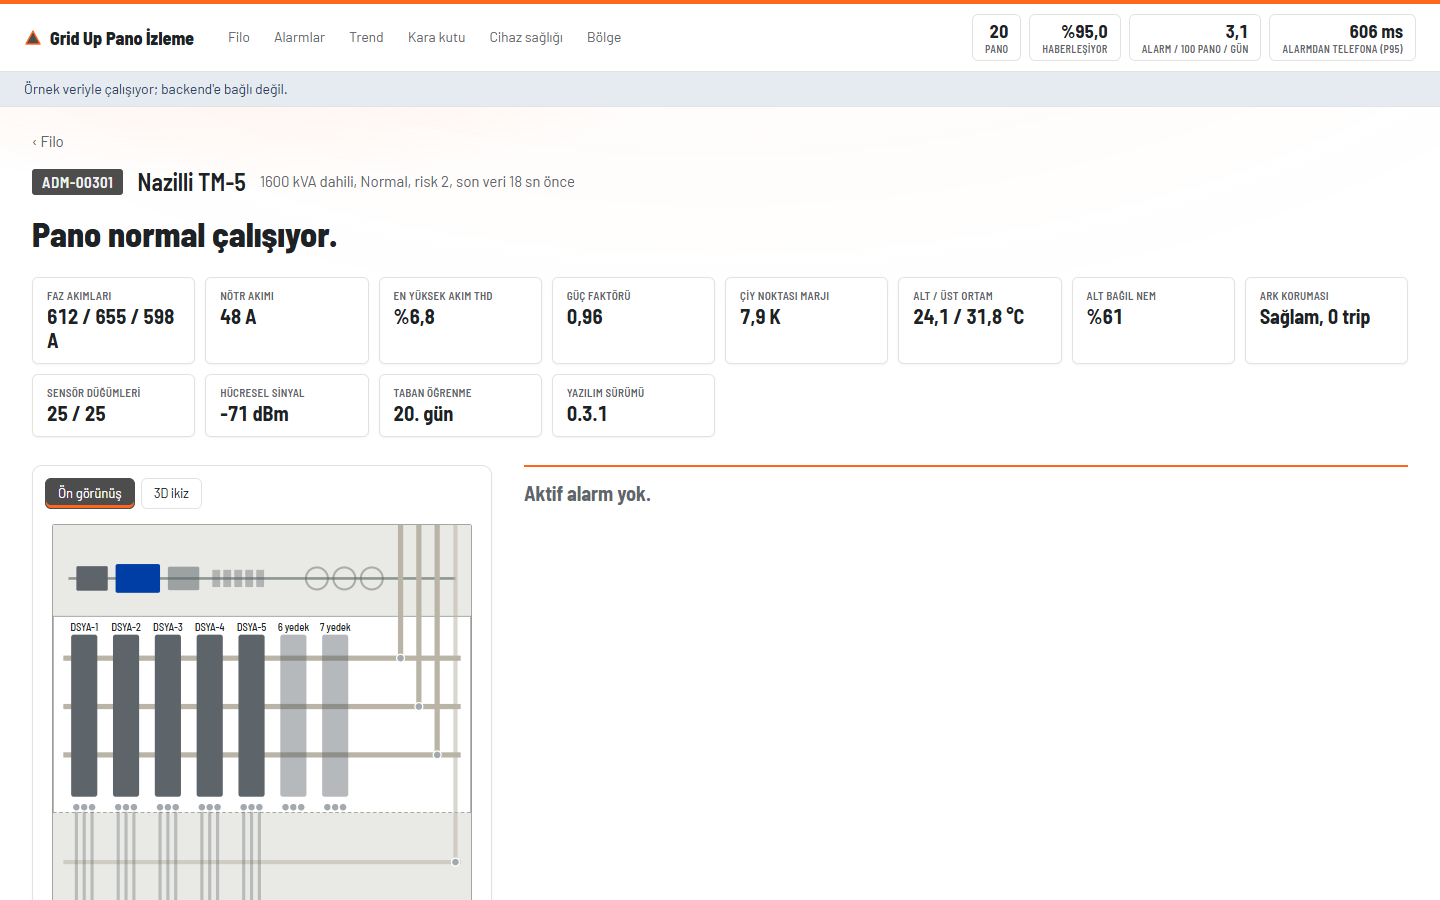
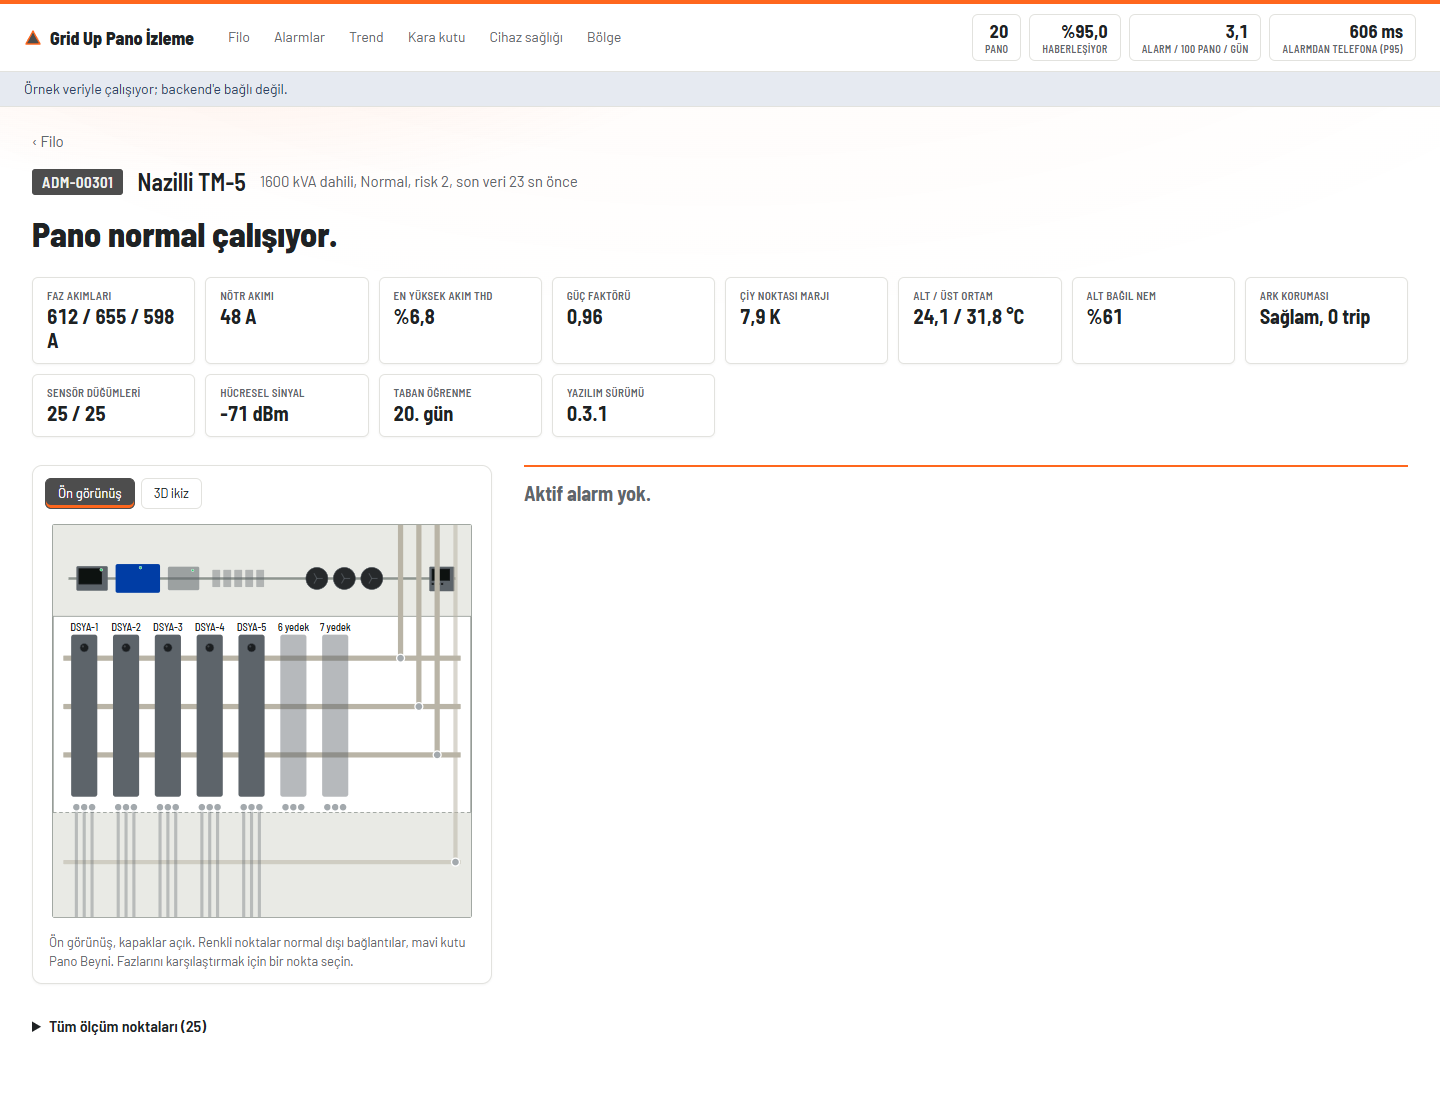
docs(frontend): pano detay ekran goruntuleri yenilendi (gercekcilik duzeltmeleri sonrasi)
assets/ekran/'daki 8 dosyadan yalnizca pano ic gorunumunu gosteren ikisi
(02-pano-detay-alarm.png /pano/ADM-00014, 02-pano-detay-normal.png /pano/ADM-00301)
bir onceki commit'teki (452af35) kondansator rengi + TVOC-2/MPR-53CS ekran detayi
degisikliklerinden etkileniyordu; ayni rota/sekme kombinasyonuyla yeniden cekildi.
docs/16-ux-tasarim.md ayni dosya adlarini kullandigi icin otomatik guncel.

diff --git a/frontend/TASARIM-REVIZYONU.md b/frontend/TASARIM-REVIZYONU.md
@@ -474,6 +474,12 @@ kontrol edildi: kondansatörler artık koyu dolu daire + tahliye izi, MPR-53CS'd
 TVOC-2'de tek parça koyu ekran görünüyor; konsolda hata yok (yalnızca ilgisiz, önceden var olan
 bir form-alanı erişilebilirlik uyarısı).
 
+**Ekran görüntüleri:** `assets/ekran/`'daki 8 dosyadan yalnızca panonun iç görünümünü gösteren
+ikisi (`02-pano-detay-alarm.png` → `/pano/ADM-00014`, "Ön görünüş"; `02-pano-detay-normal.png` →
+`/pano/ADM-00301`, sakin durum) bu değişikliklerden etkileniyordu; aynı rota/sekme kombinasyonuyla
+yeniden çekildi. Diğer 6 dosya (Filo, Alarm konsolu, Trend, Kara kutu, Cihaz sağlığı, Bölge) pano
+iç görünümünü göstermediğinden dokunulmadı — gereksiz yeniden çekim yapılmadı.
+
 ## Kaynaklar
 
 - ADM Elektrik: <https://www.admelektrik.com.tr/> · GDZ Elektrik: <https://www.gdzelektrik.com.tr/>

diff --git a/STATUS.md b/STATUS.md
@@ -36,7 +36,9 @@ görüntülendi — projeye gömülmedi):
 Ayrıntı ve dürüst tavan değerlendirmesi: `frontend/TASARIM-REVIZYONU.md` §15. Doğrulama: tsc
 temiz, 71/71 test yeşil, build başarılı. ADM-00014'te 2D ve 3D chrome-devtools ile görsel
 kontrol yapıldı (kondansatörler koyu dolu daire, MPR-53CS ekran+tuş, TVOC-2 tek parça ekran
-görünüyor), konsolda hata yok.
+görünüyor), konsolda hata yok. `assets/ekran/`'daki 8 dosyadan yalnızca pano iç görünümünü
+gösteren ikisi (`02-pano-detay-alarm.png`, `02-pano-detay-normal.png`) aynı rota/sekmeyle
+yeniden çekildi; diğer 6'sı bu değişikliklerden etkilenmediği için dokunulmadı.
 
 ## 16. Oturum 6 devamı — "2D pano çizimleri için de bir şeyler yaptın mı"
 
